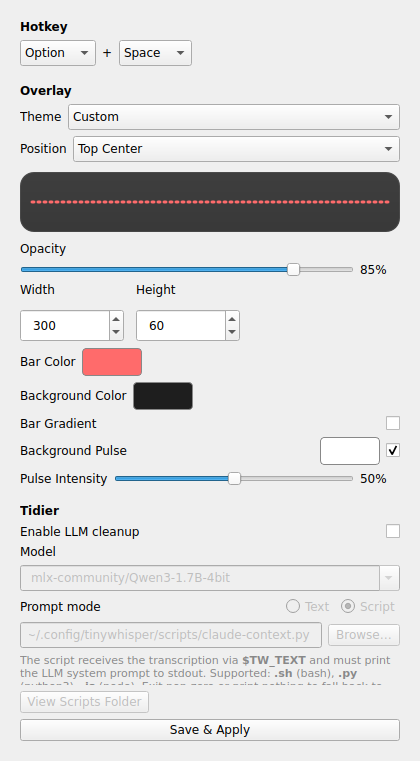
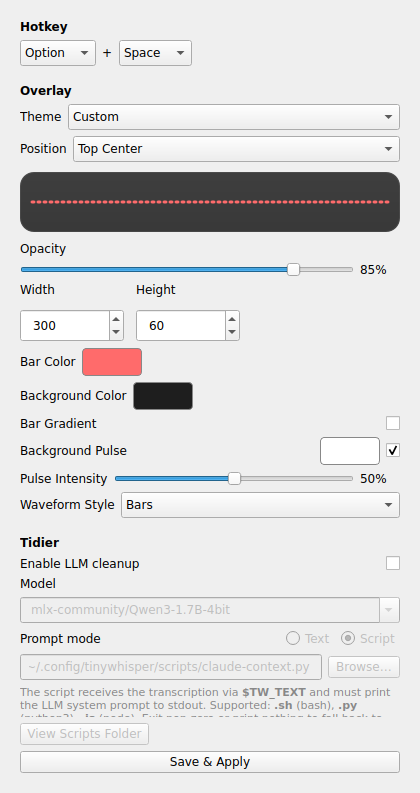
Add braille dot waveform rendering style (#27)
* Add braille dot waveform rendering style

Introduces a WaveformStyle enum (bars/braille) to OverlayConfig, replacing
the previous boolean flag with an extensible pattern for future styles.

In braille mode, each bar is rendered as a column of Unicode braille
characters (U+2800 block) with dots filled symmetrically from center
outward based on amplitude. Column spacing mirrors the bar renderer so
all 50 columns fill the full widget width with no excess padding.

* chore: update screenshots

---------

diff --git a/tinywhisper/settings.py b/tinywhisper/settings.py
@@ -6,7 +6,7 @@ from pathlib import Path
 
 import yaml
 from PyQt6.QtCore import Qt, QRectF, QTimer, pyqtSignal
-from PyQt6.QtGui import QColor, QLinearGradient, QPainter, QPen
+from PyQt6.QtGui import QColor, QFont, QFontMetricsF, QLinearGradient, QPainter, QPen
 from PyQt6.QtWidgets import (
     QButtonGroup,
     QCheckBox,
@@ -26,8 +26,8 @@ from PyQt6.QtWidgets import (
     QWidget,
 )
 
-from tinywhisper.config import AppConfig, CONFIG_DIR, CONFIG_PATH
-from tinywhisper.overlay import gradient_color_at
+from tinywhisper.config import AppConfig, CONFIG_DIR, CONFIG_PATH, WaveformStyle
+from tinywhisper.overlay import _braille_bar_char, gradient_color_at
 from tinywhisper.themes import THEMES, THEME_ORDER
 
 # ---------------------------------------------------------------------------
@@ -72,6 +72,7 @@ class WaveformPreview(QWidget):
         self._bg_color = QColor("#1E1E1E")
         self._gradient = False
         self._gradient_colors: list[QColor] = []
+        self._braille = False
         self._phase = 0.0
         self._bars: list[float] = [0.0] * self.MAX_BARS
 
@@ -108,6 +109,10 @@ class WaveformPreview(QWidget):
             self._gradient_colors = list(colors)
         self.update()
 
+    def set_braille(self, enabled: bool):
+        self._braille = enabled
+        self.update()
+
     def _tick(self):
         self._phase += 0.15
         for i in range(self.MAX_BARS):
@@ -140,27 +145,58 @@ class WaveformPreview(QWidget):
         painter.setBrush(Qt.BrushStyle.NoBrush)
         painter.drawRoundedRect(QRectF(0.5, 0.5, w - 1, h - 1), 14, 14)
 
-        # Bars
-        bar_w = max(3, (w - 16) // self.MAX_BARS - 1)
-        gap = 1
-        total_bar_w = self.MAX_BARS * (bar_w + gap) - gap
-        x_start = (w - total_bar_w) / 2
-        mid_y = h / 2
+        if self._braille:
+            # --- Braille dot waveform ---
+            font = QFont("Menlo")
+            font.setPixelSize(max(10, h // 4))
+            painter.setFont(font)
+            fm = QFontMetricsF(font)
 
-        painter.setPen(Qt.PenStyle.NoPen)
-        for i, amp in enumerate(self._bars):
-            bh = max(3, int(amp * (h - 18)))
-            x = x_start + i * (bar_w + gap)
-            y = mid_y - bh / 2
+            char_h = fm.height()
+            n_rows = max(1, round(h / char_h))
 
-            if self._gradient and self._gradient_colors:
-                t = i / max(1, self.MAX_BARS - 1)
-                color = gradient_color_at(self._gradient_colors, t)
-                painter.setBrush(color)
-            else:
-                painter.setBrush(self._color)
+            col_w = max(4, (w - 16) // self.MAX_BARS)
+            total_w = self.MAX_BARS * col_w
+            x_start = (w - total_w) / 2
+            y_start = (h - n_rows * char_h) / 2 + fm.ascent()
 
-            painter.drawRoundedRect(QRectF(x, y, bar_w, bh), 1.5, 1.5)
+            for i in range(self.MAX_BARS):
+                if i >= len(self._bars):
+                    continue
+                amp = self._bars[i]
+                if self._gradient and self._gradient_colors:
+                    t = i / max(1, self.MAX_BARS - 1)
+                    color = gradient_color_at(self._gradient_colors, t)
+                    painter.setPen(QPen(color))
+                else:
+                    painter.setPen(QPen(self._color))
+
+                x = int(x_start + i * col_w)
+                for row in range(n_rows):
+                    ch = _braille_bar_char(row, n_rows, amp)
+                    painter.drawText(x, int(y_start + row * char_h), ch)
+        else:
+            # --- Rectangular bar waveform ---
+            bar_w = max(3, (w - 16) // self.MAX_BARS - 1)
+            gap = 1
+            total_bar_w = self.MAX_BARS * (bar_w + gap) - gap
+            x_start = (w - total_bar_w) / 2
+            mid_y = h / 2
+
+            painter.setPen(Qt.PenStyle.NoPen)
+            for i, amp in enumerate(self._bars):
+                bh = max(3, int(amp * (h - 18)))
+                x = x_start + i * (bar_w + gap)
+                y = mid_y - bh / 2
+
+                if self._gradient and self._gradient_colors:
+                    t = i / max(1, self.MAX_BARS - 1)
+                    color = gradient_color_at(self._gradient_colors, t)
+                    painter.setBrush(color)
+                else:
+                    painter.setBrush(self._color)
+
+                painter.drawRoundedRect(QRectF(x, y, bar_w, bh), 1.5, 1.5)
 
         painter.end()
 
@@ -398,6 +434,22 @@ class SettingsWindow(QWidget):
         pulse_opacity_row.addWidget(self._pulse_opacity_label)
         layout.addLayout(pulse_opacity_row)
 
+        # Waveform style
+        style_row = QHBoxLayout()
+        style_row.addWidget(QLabel("Waveform Style"))
+        self._style_combo = QComboBox()
+        self._style_combo.addItem("Bars", WaveformStyle.BARS)
+        self._style_combo.addItem("Braille Dots", WaveformStyle.BRAILLE)
+        current_style = config.overlay.waveform_style
+        for i in range(self._style_combo.count()):
+            if self._style_combo.itemData(i) is current_style:
+                self._style_combo.setCurrentIndex(i)
+                break
+        self._style_combo.currentIndexChanged.connect(self._on_style_changed)
+        style_row.addWidget(self._style_combo, 1)
+        layout.addLayout(style_row)
+        self._preview.set_braille(current_style is WaveformStyle.BRAILLE)
+
         # ── Tidier ──────────────────────────────────────────────────────────
         layout.addSpacing(12)
         tidier_header = QLabel("Tidier")
@@ -611,6 +663,11 @@ class SettingsWindow(QWidget):
         super().hideEvent(a0)
         self._preview.stop()
 
+    def _on_style_changed(self, index: int):
+        style = self._style_combo.itemData(index)
+        self._preview.set_braille(style is WaveformStyle.BRAILLE)
+        self._mark_custom()
+
     def _on_opacity_changed(self, value: int):
         self._opacity_label.setText(f"{value}%")
         self._preview.set_opacity(value / 100.0)
@@ -721,6 +778,9 @@ class SettingsWindow(QWidget):
         else:
             self._config.overlay.theme = ""
 
+        # Waveform style
+        self._config.overlay.waveform_style = self._style_combo.currentData()
+
         # Pulse
         self._config.overlay.pulse = self._pulse_check.isChecked()
         self._config.overlay.pulse_color = self._pulse_color.name()
@@ -779,6 +839,7 @@ class SettingsWindow(QWidget):
                 "pulse": self._config.overlay.pulse,
                 "pulse_color": self._config.overlay.pulse_color,
                 "pulse_opacity": self._config.overlay.pulse_opacity,
+                "waveform_style": self._config.overlay.waveform_style.value,
             },
             "tidier": {
                 "enabled": self._config.tidier.enabled,

diff --git a/tinywhisper/overlay.py b/tinywhisper/overlay.py
@@ -5,10 +5,10 @@ import os
 from collections import deque
 
 from PyQt6.QtCore import Qt, QRectF, QTimer
-from PyQt6.QtGui import QColor, QLinearGradient, QPainter, QPainterPath, QPen
+from PyQt6.QtGui import QColor, QFont, QFontMetricsF, QLinearGradient, QPainter, QPainterPath, QPen
 from PyQt6.QtWidgets import QApplication, QWidget
 
-from tinywhisper.config import OverlayConfig
+from tinywhisper.config import OverlayConfig, WaveformStyle
 
 
 def _lerp_color(c1: QColor, c2: QColor, t: float) -> QColor:
@@ -33,6 +33,35 @@ def gradient_color_at(colors: list[QColor], t: float) -> QColor:
     if idx >= len(colors) - 1:
         return QColor(colors[-1])
     return _lerp_color(colors[idx], colors[idx + 1], segment - idx)
+
+
+def _braille_bar_char(row: int, total_rows: int, amp: float) -> str:
+    """Return the braille character for one cell-row of a centered vertical bar.
+
+    Each Unicode braille cell is 2 dots wide × 4 dot-rows tall.
+    The bar is centered vertically with a height proportional to *amp* (0–1).
+
+    Bit layout (Unicode braille block U+2800+bits):
+      bit 0 = dot 1  (row 0, left)   bit 3 = dot 4  (row 0, right)
+      bit 1 = dot 2  (row 1, left)   bit 4 = dot 5  (row 1, right)
+      bit 2 = dot 3  (row 2, left)   bit 5 = dot 6  (row 2, right)
+      bit 6 = dot 7  (row 3, left)   bit 7 = dot 8  (row 3, right)
+    """
+    total_dots = total_rows * 4
+    bar_dots = amp * (total_dots - 2)  # 1-dot padding top & bottom
+    center = total_dots / 2
+    bar_top = center - bar_dots / 2
+    bar_bot = center + bar_dots / 2
+
+    # bit index for (dot_row_within_cell, left|right)
+    _LEFT = (0, 1, 2, 6)
+    _RIGHT = (3, 4, 5, 7)
+
+    bits = 0
+    for d in range(4):
+        if bar_top <= row * 4 + d < bar_bot:
+            bits |= (1 << _LEFT[d]) | (1 << _RIGHT[d])
+    return chr(0x2800 + bits)
 
 
 class WaveformOverlay(QWidget):
@@ -248,33 +277,77 @@ class WaveformOverlay(QWidget):
             painter.end()
             return
 
-        # --- Waveform bars ---
-        bar_w = max(3, (w - 16) // self.MAX_BARS - 1)
-        gap = 1
-        total_bar_w = self.MAX_BARS * (bar_w + gap) - gap
-        x_start = p + (w - total_bar_w) / 2
-        mid_y = p + h / 2
         n_bars = len(self._bars)
 
-        painter.setPen(Qt.PenStyle.NoPen)
+        if self._config.waveform_style is WaveformStyle.BRAILLE:
+            self._paint_braille(painter, p, w, h, n_bars)
+        else:
+            # --- Waveform bars ---
+            bar_w = max(3, (w - 16) // self.MAX_BARS - 1)
+            gap = 1
+            total_bar_w = self.MAX_BARS * (bar_w + gap) - gap
+            x_start = p + (w - total_bar_w) / 2
+            mid_y = p + h / 2
 
-        for i, amp in enumerate(self._bars):
-            bar_h = max(3, int(amp * (h - 18)))
-            x = x_start + i * (bar_w + gap)
-            y = mid_y - bar_h / 2
+            painter.setPen(Qt.PenStyle.NoPen)
+
+            for i, amp in enumerate(self._bars):
+                bar_h = max(3, int(amp * (h - 18)))
+                x = x_start + i * (bar_w + gap)
+                y = mid_y - bar_h / 2
+
+                if self._gradient:
+                    # Position-based color: use bar index relative to total slots
+                    t = i / max(1, self.MAX_BARS - 1)
+                    color = gradient_color_at(self._gradient_colors, t)
+                    # Fade older (leftmost) bars slightly for depth
+                    if n_bars < self.MAX_BARS:
+                        age = 1.0 - (i / max(1, n_bars))
+                        color.setAlpha(int(255 * (0.5 + 0.5 * (1.0 - age))))
+                    painter.setBrush(color)
+                else:
+                    painter.setBrush(self._color)
+
+                painter.drawRoundedRect(QRectF(x, y, bar_w, bar_h), 1.5, 1.5)
+
+        painter.end()
+
+    # ── Braille renderer ─────────────────────────────────────────────────
+
+    def _paint_braille(self, painter: QPainter, p: int, w: int, h: int, n_bars: int) -> None:
+        """Render the waveform as a grid of Unicode braille dot characters."""
+        font = QFont("Menlo")
+        font.setPixelSize(max(10, h // 4))
+        painter.setFont(font)
+        fm = QFontMetricsF(font)
+
+        char_h = fm.height()
+        n_rows = max(1, round(h / char_h))
+
+        # Use the same column spacing as the bar renderer so all MAX_BARS columns
+        # fill the full available width — chars may overlap slightly but that's fine.
+        col_w = max(4, (w - 16) // self.MAX_BARS)
+        total_w = self.MAX_BARS * col_w
+        x_start = p + (w - total_w) / 2
+        y_start = p + (h - n_rows * char_h) / 2 + fm.ascent()
+
+        bars_list = list(self._bars)
+        for i in range(self.MAX_BARS):
+            if i >= len(bars_list):
+                continue
+            amp = bars_list[i]
 
             if self._gradient:
-                # Position-based color: use bar index relative to total slots
                 t = i / max(1, self.MAX_BARS - 1)
                 color = gradient_color_at(self._gradient_colors, t)
-                # Fade older (leftmost) bars slightly for depth
                 if n_bars < self.MAX_BARS:
                     age = 1.0 - (i / max(1, n_bars))
                     color.setAlpha(int(255 * (0.5 + 0.5 * (1.0 - age))))
-                painter.setBrush(color)
+                painter.setPen(QPen(color))
             else:
-                painter.setBrush(self._color)
+                painter.setPen(QPen(self._color))
 
-            painter.drawRoundedRect(QRectF(x, y, bar_w, bar_h), 1.5, 1.5)
-
-        painter.end()
+            x = int(x_start + i * col_w)
+            for row in range(n_rows):
+                ch = _braille_bar_char(row, n_rows, amp)
+                painter.drawText(x, int(y_start + row * char_h), ch)

diff --git a/tinywhisper/config.py b/tinywhisper/config.py
@@ -1,13 +1,22 @@
 """Dataclass config + YAML loading from ~/.config/tinywhisper/config.yaml."""
 
 from dataclasses import dataclass, field
+from enum import Enum
 from pathlib import Path
 
 import yaml
+from dacite import Config as DaciteConfig
 from dacite import from_dict
 
 CONFIG_DIR = Path.home() / ".config" / "tinywhisper"
 CONFIG_PATH = CONFIG_DIR / "config.yaml"
+
+
+class WaveformStyle(str, Enum):
+    """Rendering style for the waveform overlay."""
+
+    BARS = "bars"
+    BRAILLE = "braille"
 
 
 @dataclass
@@ -55,6 +64,7 @@ class OverlayConfig:
     pulse: bool = True  # subtle background glow pulse
     pulse_color: str = "#FFFFFF"  # glow halo color
     pulse_opacity: float = 0.5  # glow intensity (0.0 – 1.0)
+    waveform_style: WaveformStyle = WaveformStyle.BARS  # rendering style
 
 
 SCRIPTS_DIR = CONFIG_DIR / "scripts"
@@ -84,5 +94,9 @@ def load_config() -> AppConfig:
     if CONFIG_PATH.exists():
         with open(CONFIG_PATH) as f:
             data = yaml.safe_load(f) or {}
-        return from_dict(data_class=AppConfig, data=data)
+        return from_dict(
+            data_class=AppConfig,
+            data=data,
+            config=DaciteConfig(cast=[WaveformStyle]),
+        )
     return AppConfig()
